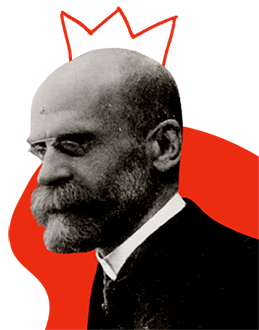
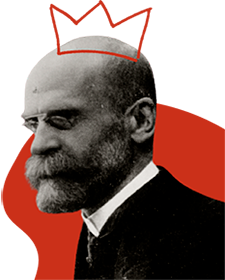
Ajustes na tela de login

diff --git a/javascript/scripts.js b/javascript/scripts.js
@@ -89,8 +89,11 @@ const enableDarkMode = () => {
     if (document.getElementById('img-logo-index')) {
         document.getElementById('img-logo-index').src = 'image/Logo-noturno.png';
     }
-    if (document.getElementById('img-login')) {
-        document.getElementById('img-login').src = '../image/Bg-Login-Icon-Noturno.png';
+    if (document.getElementById('icon-login')) {
+        document.getElementById('icon-login').src = '../image/Bg-Login-Icon-Noturno.png';
+    }
+    if (document.getElementById('icon-login-secundario')) {
+        document.getElementById('icon-login-secundario').src = '../image/Bg-Login-Icon-Noturno.png';
     }
     localStorage.setItem('darkMode', 'enabled');
 }
@@ -105,8 +108,11 @@ const disableDarkMode = () => {
     if (document.getElementById('img-logo-index')) {
         document.getElementById('img-logo-index').src = 'image/Logo-claro.png';
     }
-    if (document.getElementById('img-login')) {
-        document.getElementById('img-login').src = '../image/Bg-Login-Icon-Claro.png';
+    if (document.getElementById('icon-login')) {
+        document.getElementById('icon-login').src = '../image/Bg-Login-Icon-Claro.png';
+    }
+    if (document.getElementById('icon-login-secundario')) {
+        document.getElementById('icon-login-secundario').src = '../image/Bg-Login-Icon-Claro.png';
     }
     localStorage.setItem('darkMode', null);
 }

diff --git a/css/style.css b/css/style.css
@@ -202,9 +202,9 @@ a#novo-registro {
   text-decoration: underline;
 }
 
-.img-login {
-  width: 259px;
-  height: 330px;
+.icon-login {
+  width: 225px;
+  height: 280px;
   z-index: 10;
   bottom: 0;
   right: 0;

diff --git a/css/responsive-theme.css b/css/responsive-theme.css
@@ -216,7 +216,7 @@
     display: none !important;
   }
 
-  .img-login {
+  .icon-login {
     width: 159px;
     height: 200px;
     z-index: 10;

diff --git a/view/login.php b/view/login.php
@@ -96,7 +96,7 @@ require_once("../dao/UsuarioDao.php");
                         </div>
                         <div class="row">
                             <div class="col-sm-10 col-lg-offset-1">
-                                <img id="img-login" class="img-login" src="../image/Bg-Login-Icon-Claro.png">
+                                <img id="icon-login" class="icon-login" src="../image/Bg-Login-Icon-Claro.png">
                             </div>
                         </div>
                     </form>
@@ -107,7 +107,7 @@ require_once("../dao/UsuarioDao.php");
                         <p id="frase-login">participe da nossa comunidade,<br> aprenda de forma interativa</p>
                     </div>
 
-                    <img class="img-login" src="../image/Bg-Login-Icon-Claro.png">
+                    <img id="icon-login-secundario" class="icon-login" src="../image/Bg-Login-Icon-Claro.png">
                 </div>
 
 
